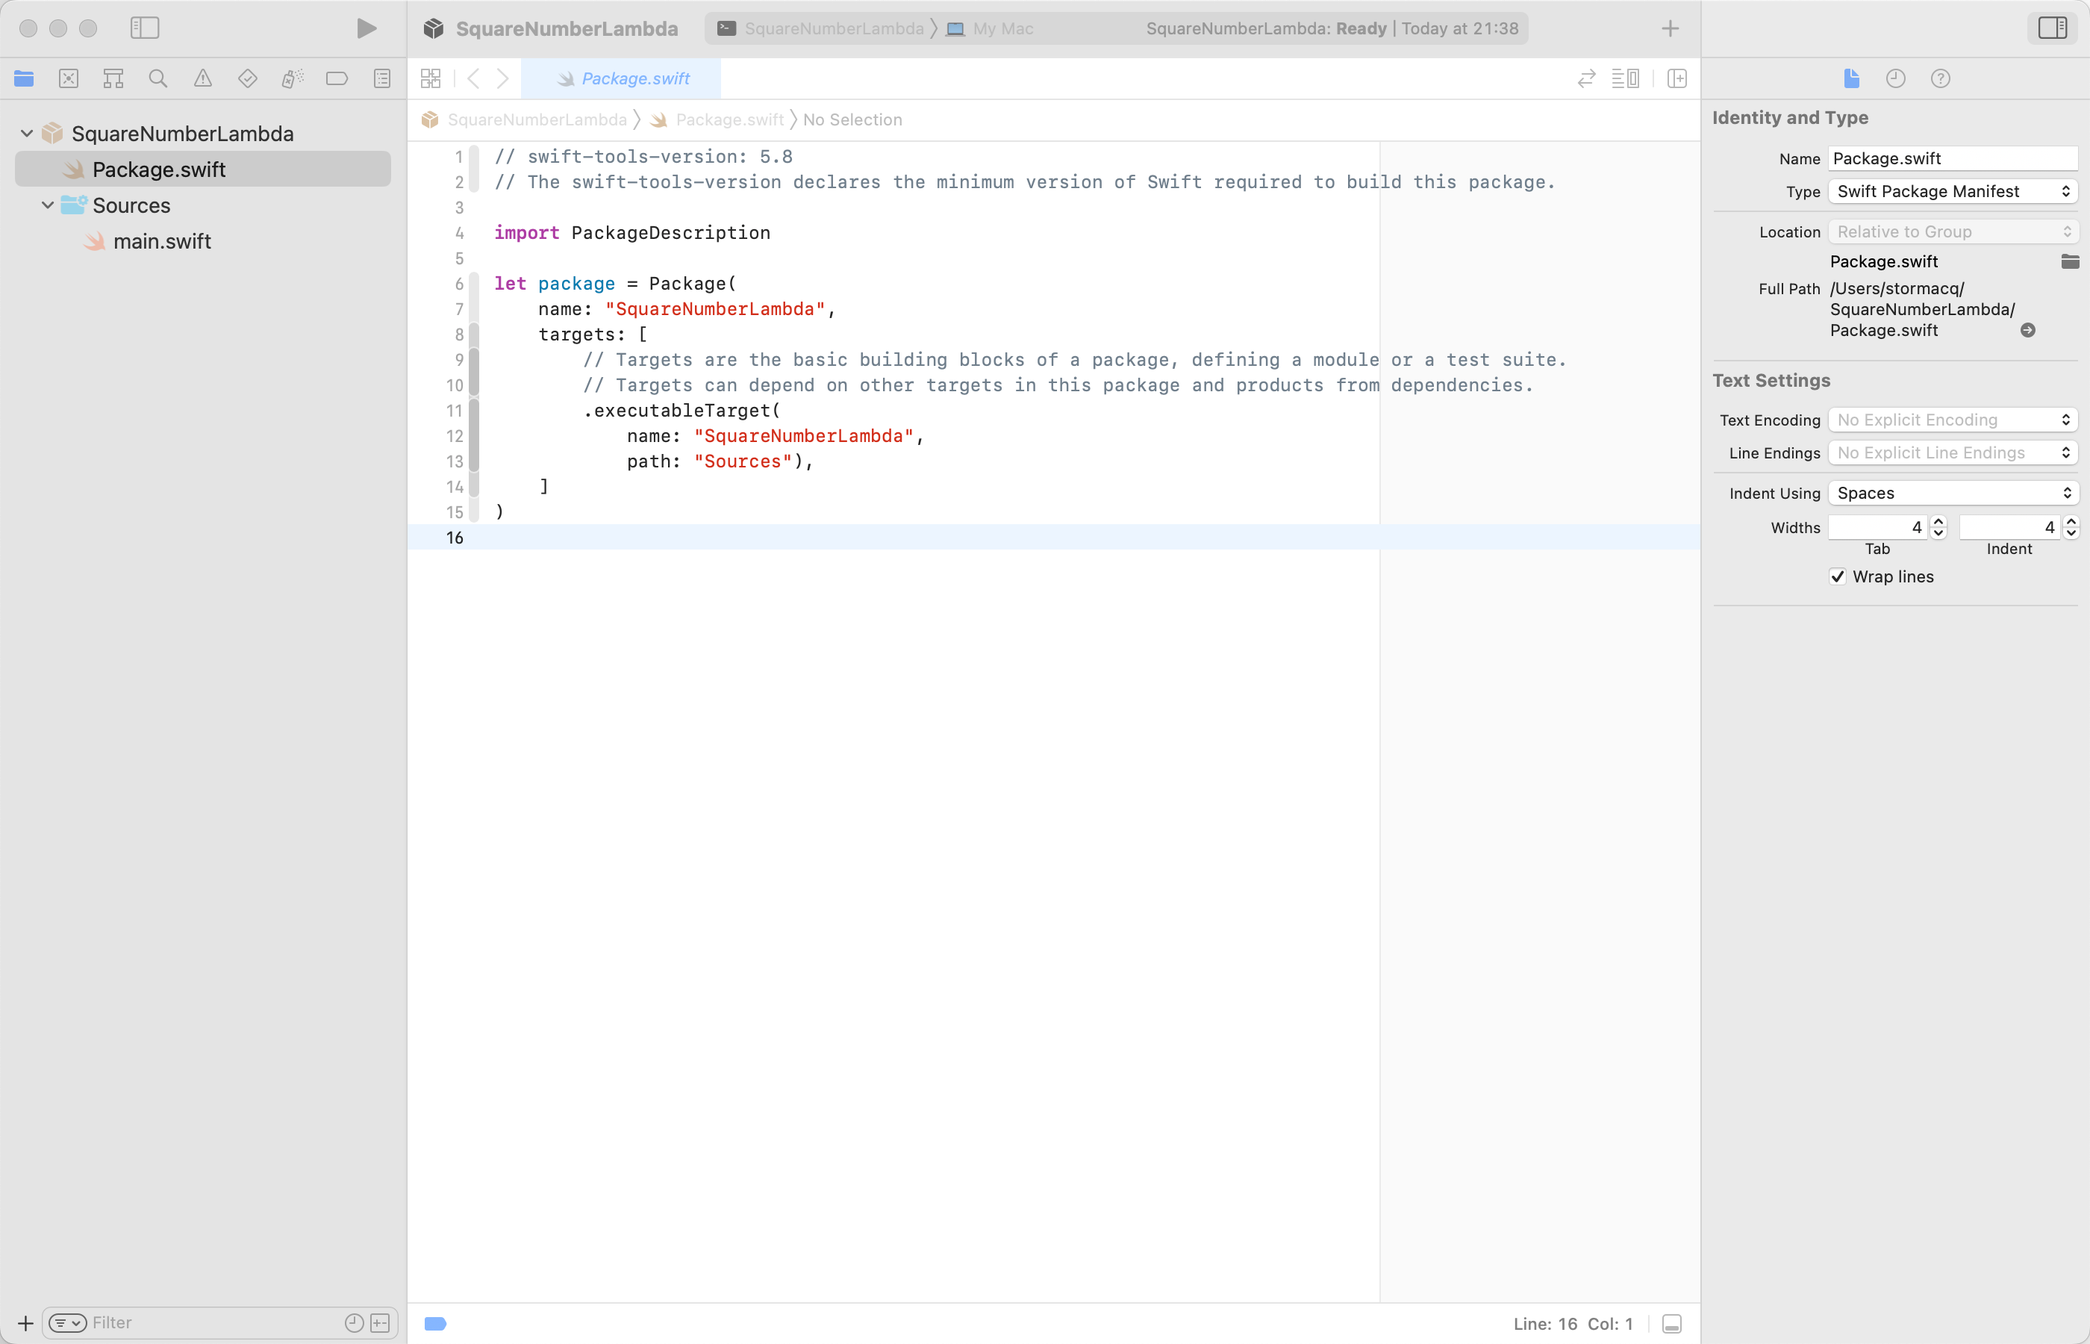
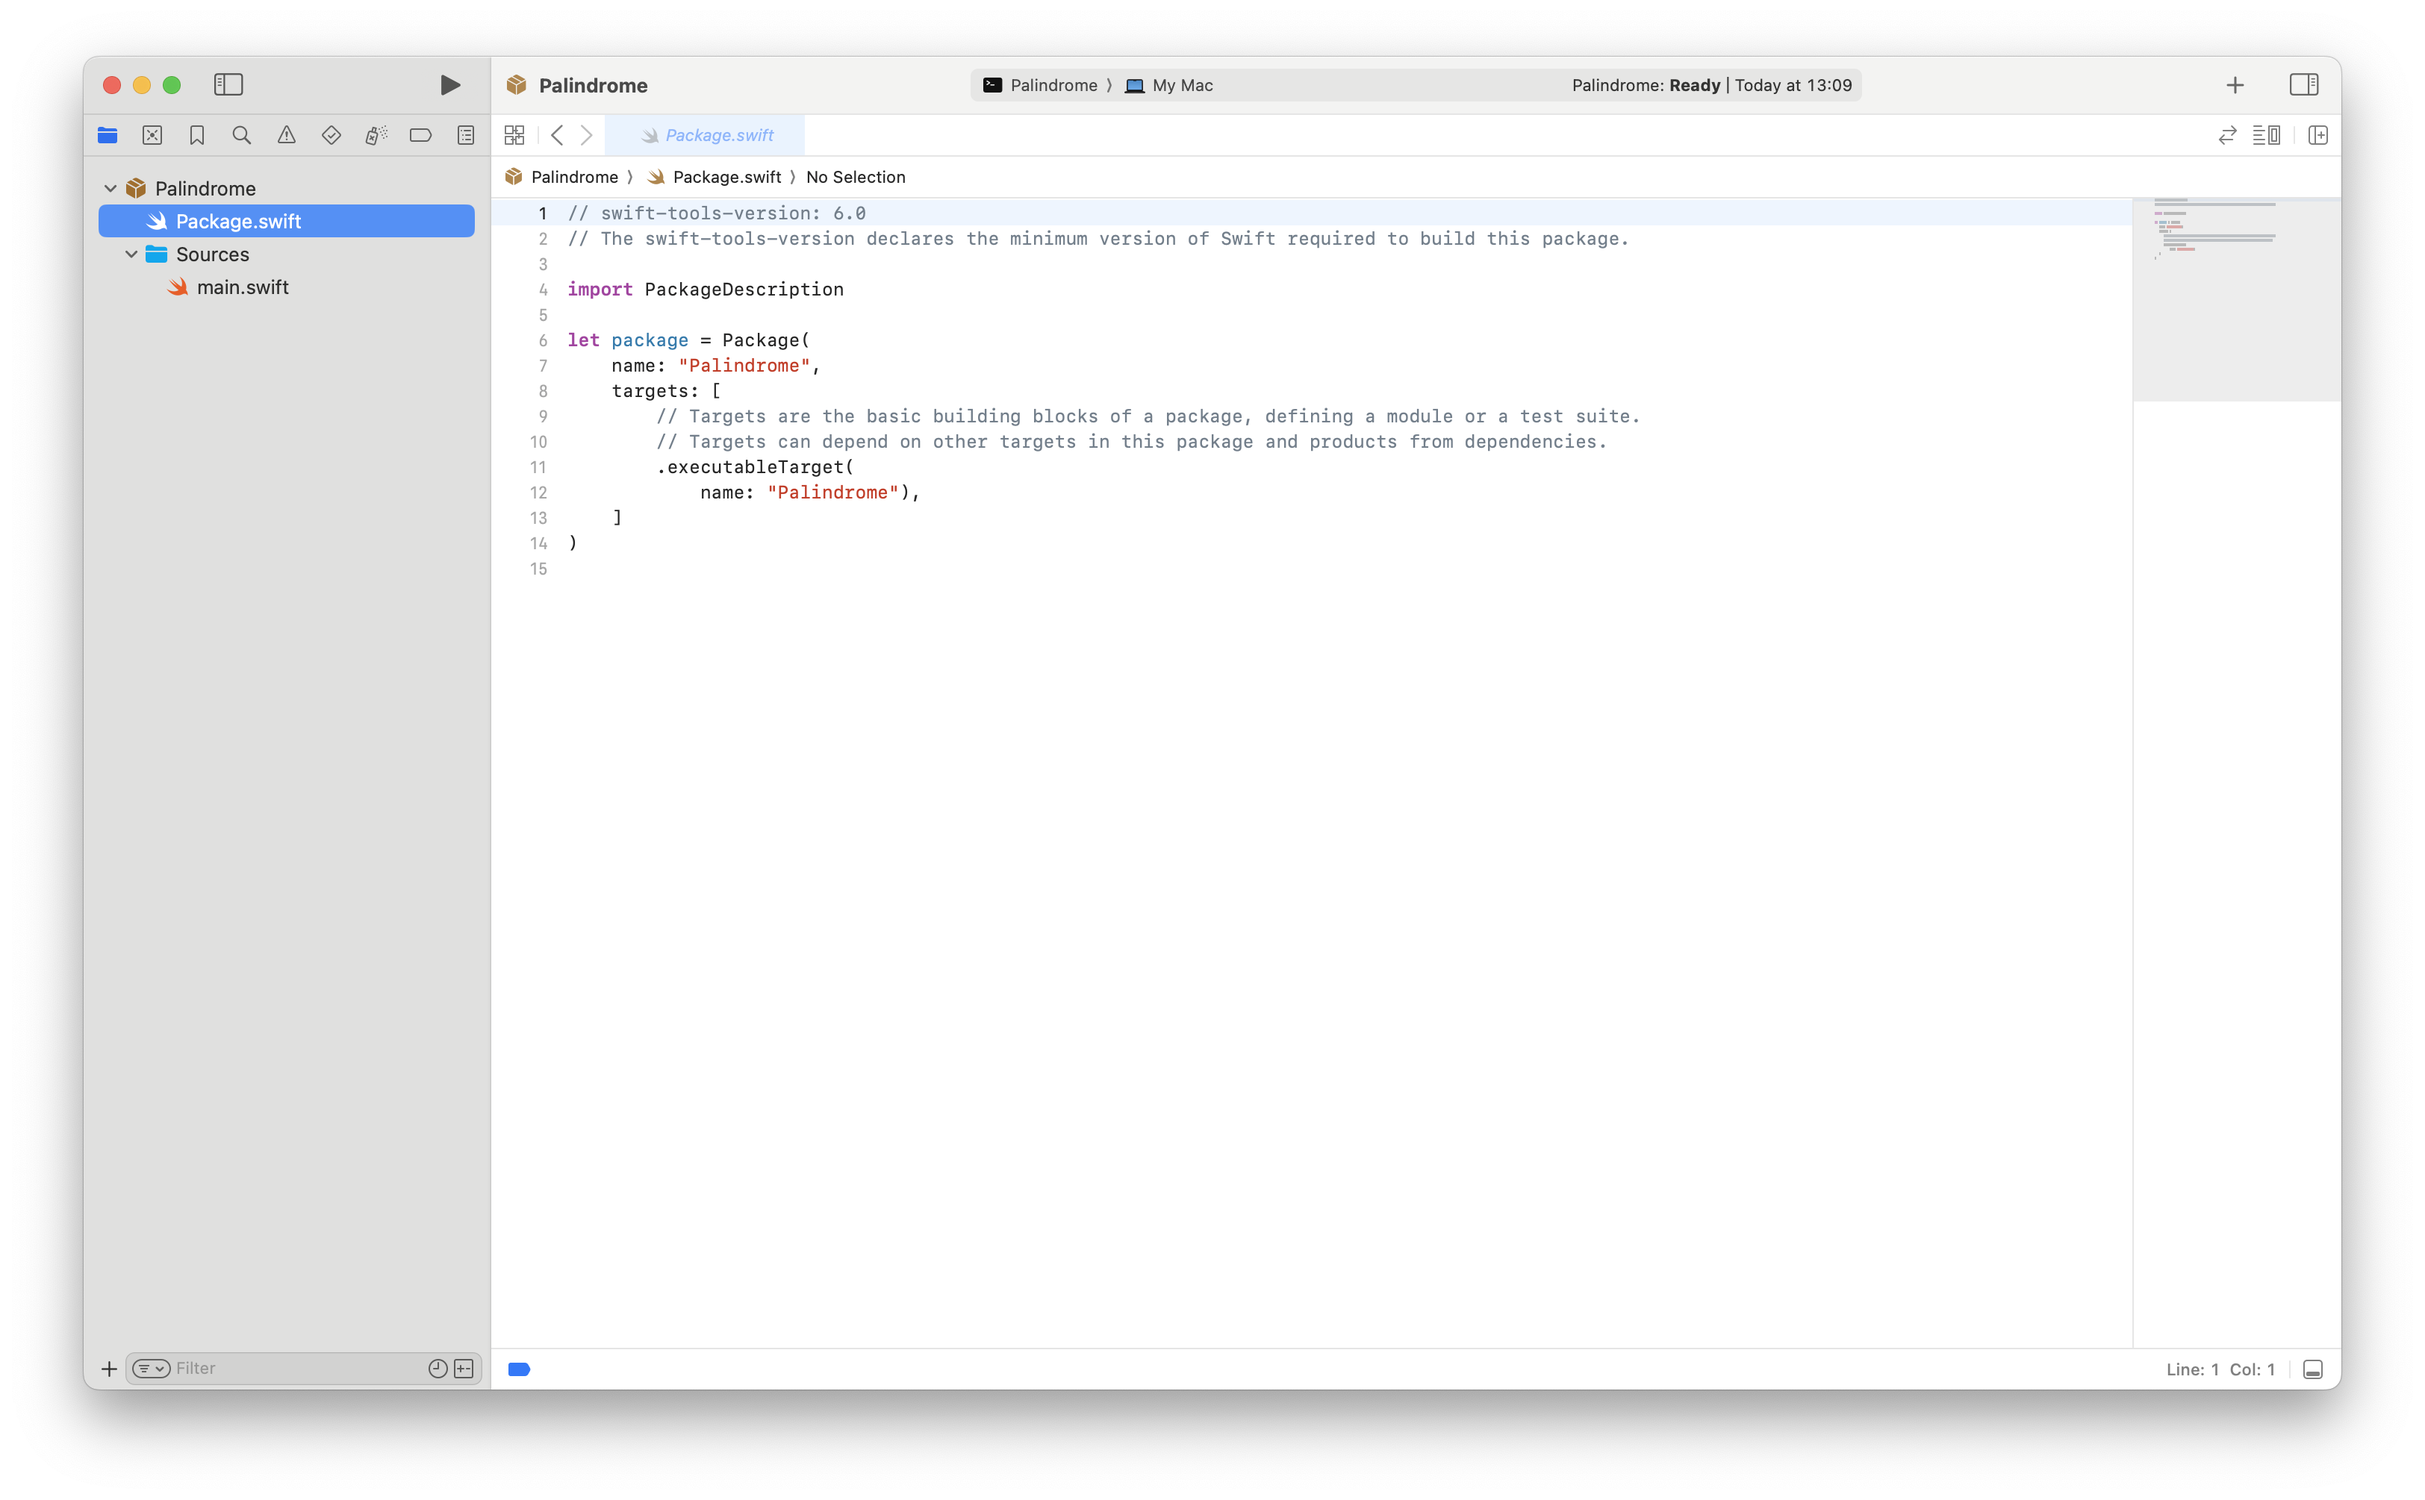
Sections 1, 2, and 3

diff --git a/Sources/AWSLambdaRuntimeCore/Documentation.docc/Resources/code/03-03-06-main.swift b/Sources/AWSLambdaRuntimeCore/Documentation.docc/Resources/code/03-03-06-main.swift
@@ -2,20 +2,27 @@ import AWSLambdaRuntime
 
 // the data structure to represent the input parameter
 struct Request: Decodable {
-    let number: Double
+    let text: String
 }
 
-// the data structure to represent the output response
+// the data structure to represent the response parameter
 struct Response: Encodable {
-    let result: Double
+    let text: String
+    let isPalindrome: Bool
+    let message: String
 }
 
-// the Lambda runtime
+// the business function
+func isPalindrome(_ text: String) -> Bool {
+    let cleanedText = text.lowercased().filter { $0.isLetter }
+    return cleanedText == String(cleanedText.reversed())
+}
+
+// the lambda handler function
 let runtime = LambdaRuntime {
-    (event: Request, context: LambdaContext) in
-
-    Response(result: event.number * event.number)
+    (event: Request, context: LambdaContext) -> Response in
+    
+    // call the business function and return a response
+    let result = isPalindrome(event.text)
+    return Response(text: event.text, isPalindrome: result, message: "Your text is \(result ? "a" : "not a") palindrome")
 }
-
-// start the loop
-try await runtime.run()

diff --git a/Sources/AWSLambdaRuntimeCore/Documentation.docc/Resources/code/03-02-05-package.swift b/Sources/AWSLambdaRuntimeCore/Documentation.docc/Resources/code/03-02-05-package.swift
@@ -4,19 +4,19 @@
 import PackageDescription
 
 let package = Package(
-    name: "SquareNumberLambda",
+    name: "Palindrome",
     platforms: [
         .macOS(.v15)
     ],
     products: [
-        .executable(name: "SquareNumberLambda", targets: ["SquareNumberLambda"])
+        .executable(name: "PalindromeLambda", targets: ["PalindromeLambda"])
     ],
     dependencies: [
-        .package(url: "https://github.com/swift-server/swift-aws-lambda-runtime.git", from: "main")
+        .package(url: "https://github.com/swift-server/swift-aws-lambda-runtime.git", branch: "main")
     ],
     targets: [
         .executableTarget(
-            name: "SquareNumberLambda",
+            name: "PalindromeLambda",
             dependencies: [
                 .product(name: "AWSLambdaRuntime", package: "swift-aws-lambda-runtime")
             ],

diff --git a/Sources/AWSLambdaRuntimeCore/Documentation.docc/Resources/code/03-03-04-main.swift b/Sources/AWSLambdaRuntimeCore/Documentation.docc/Resources/code/03-03-04-main.swift
@@ -2,16 +2,18 @@ import AWSLambdaRuntime
 
 // the data structure to represent the input parameter
 struct Request: Decodable {
-    let number: Double
+    let text: String
 }
 
-// the data structure to represent the output response
+// the data structure to represent the response parameter
 struct Response: Encodable {
-    let result: Double
+    let text: String
+    let isPalindrome: Bool
+    let message: String
 }
 
-// the Lambda runtime
-let runtime = LambdaRuntime {
-    (event: Request, context: LambdaContext) in
-
+// the business function
+func isPalindrome(_ text: String) -> Bool {
+    let cleanedText = text.lowercased().filter { $0.isLetter }
+    return cleanedText == String(cleanedText.reversed())
 }

diff --git a/Sources/AWSLambdaRuntimeCore/Documentation.docc/Resources/code/03-03-03-main.swift b/Sources/AWSLambdaRuntimeCore/Documentation.docc/Resources/code/03-03-03-main.swift
@@ -1,14 +1,17 @@
-import AWSLambdaRuntime
-
 // the data structure to represent the input parameter
 struct Request: Decodable {
-    let number: Double
+    let text: String
 }
 
-// the data structure to represent the output response
+// the data structure to represent the response parameter
 struct Response: Encodable {
-    let result: Double
+    let text: String
+    let isPalindrome: Bool
+    let message: String
 }
 
-// the Lambda runtime
-let runtime = LambdaRuntime {
+// the business function
+func isPalindrome(_ text: String) -> Bool {
+    let cleanedText = text.lowercased().filter { $0.isLetter }
+    return cleanedText == String(cleanedText.reversed())
+}

diff --git a/Sources/AWSLambdaRuntimeCore/Documentation.docc/Resources/code/03-02-04-package.swift b/Sources/AWSLambdaRuntimeCore/Documentation.docc/Resources/code/03-02-04-package.swift
@@ -4,14 +4,14 @@
 import PackageDescription
 
 let package = Package(
-    name: "SquareNumberLambda",
+    name: "Palindrome",
     platforms: [
         .macOS(.v15)
     ],
     products: [
-        .executable(name: "SquareNumberLambda", targets: ["SquareNumberLambda"])
+        .executable(name: "PalindromeLambda", targets: ["PalindromeLambda"])
     ],
     dependencies: [
-        .package(url: "https://github.com/swift-server/swift-aws-lambda-runtime.git", from: "main")
+        .package(url: "https://github.com/swift-server/swift-aws-lambda-runtime.git", branch: "main")
     ]
 )

diff --git a/Sources/AWSLambdaRuntimeCore/Documentation.docc/Resources/code/03-03-07-main.swift b/Sources/AWSLambdaRuntimeCore/Documentation.docc/Resources/code/03-03-07-main.swift
@@ -22,4 +22,10 @@ func isPalindrome(_ text: String) -> Bool {
 let runtime = LambdaRuntime {
     (event: Request, context: LambdaContext) -> Response in
     
+    // call the business function and return a response
+    let result = isPalindrome(event.text)
+    return Response(text: event.text, isPalindrome: result, message: "Your text is \(result ? "a" : "not a") palindrome")
 }
+
+// start the runtime
+try await runtime.run()

diff --git a/Sources/AWSLambdaRuntimeCore/Documentation.docc/Resources/code/03-02-03-package.swift b/Sources/AWSLambdaRuntimeCore/Documentation.docc/Resources/code/03-02-03-package.swift
@@ -4,11 +4,11 @@
 import PackageDescription
 
 let package = Package(
-    name: "SquareNumberLambda",
+    name: "Palindrome",
     platforms: [
         .macOS(.v15)
     ],
     dependencies: [
-        .package(url: "https://github.com/swift-server/swift-aws-lambda-runtime.git", from: "main")
+        .package(url: "https://github.com/swift-server/swift-aws-lambda-runtime.git", branch: "main")
     ]
 )

diff --git a/Sources/AWSLambdaRuntimeCore/Documentation.docc/Resources/code/03-03-02-main.swift b/Sources/AWSLambdaRuntimeCore/Documentation.docc/Resources/code/03-03-02-main.swift
@@ -1,9 +1,11 @@
 // the data structure to represent the input parameter
 struct Request: Decodable {
-    let number: Double
+    let text: String
 }
 
-// the data structure to represent the output response
+// the data structure to represent the response parameter
 struct Response: Encodable {
-    let result: Double
+    let text: String
+    let isPalindrome: Bool
+    let message: String
 }

diff --git a/Sources/AWSLambdaRuntimeCore/Documentation.docc/Resources/code/03-02-02-package.swift b/Sources/AWSLambdaRuntimeCore/Documentation.docc/Resources/code/03-02-02-package.swift
@@ -4,7 +4,7 @@
 import PackageDescription
 
 let package = Package(
-    name: "SquareNumberLambda",
+    name: "Palindrome",
     platforms: [
         .macOS(.v15)
     ]

diff --git a/Sources/AWSLambdaRuntimeCore/Documentation.docc/Resources/code/03-03-01-main.swift b/Sources/AWSLambdaRuntimeCore/Documentation.docc/Resources/code/03-03-01-main.swift
@@ -1,4 +1,4 @@
 // the data structure to represent the input parameter
 struct Request: Decodable {
-    let number: Double
+    let text: String
 }

diff --git a/Sources/AWSLambdaRuntimeCore/Documentation.docc/Resources/code/03-02-01-package.swift b/Sources/AWSLambdaRuntimeCore/Documentation.docc/Resources/code/03-02-01-package.swift
@@ -4,5 +4,5 @@
 import PackageDescription
 
 let package = Package(
-    name: "SquareNumberLambda"
+    name: "Palindrome"
 )
